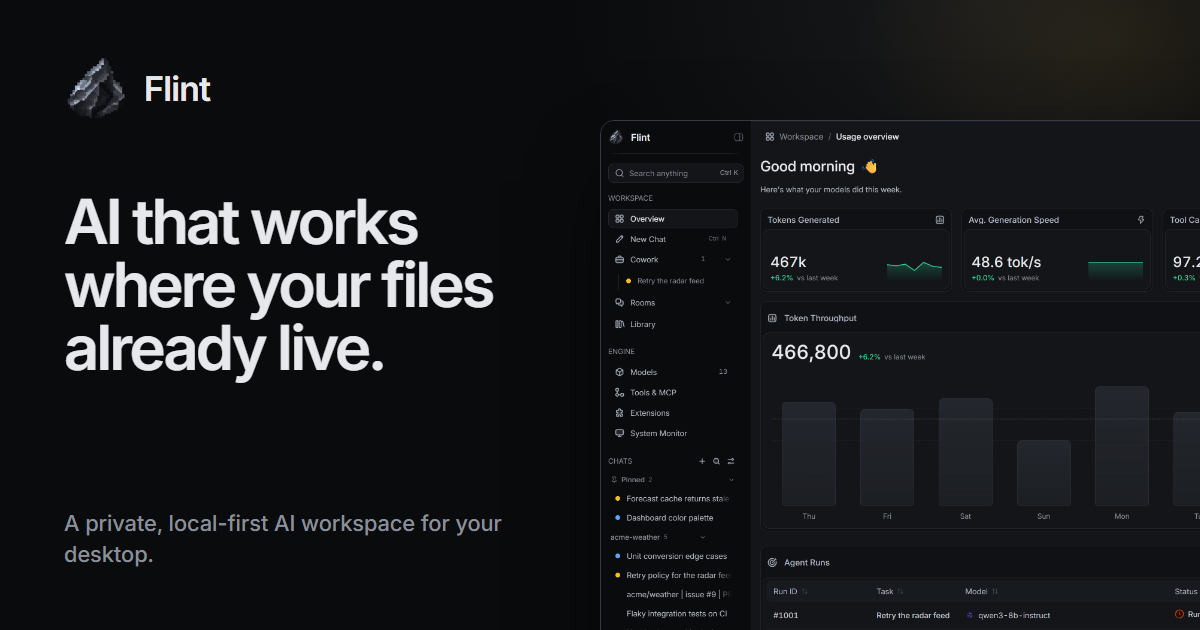
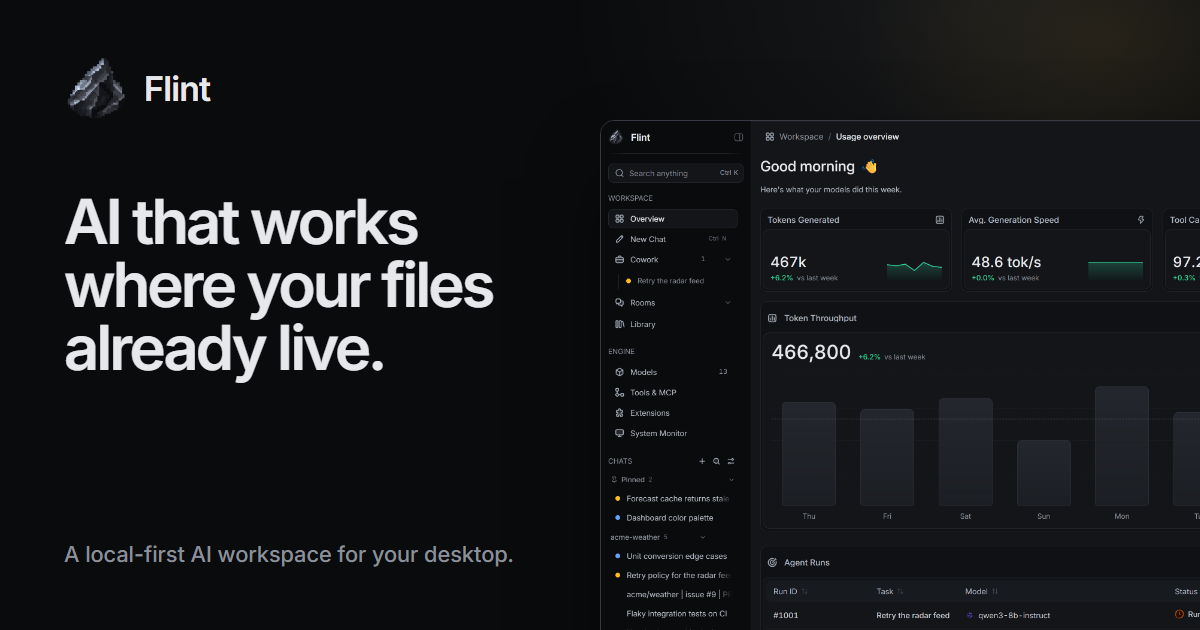
fix(website): drop the word private from site copy, scroll in-page links explicitly
Flint is open source on a public repository, so the site calls it local-first rather than private (hero, titles, descriptions, footer, social image, structured data, changelog heading). In-page links now scroll explicitly so they also work inside sandboxed frames. Adds a flat build mode and a packaging script for hosts that only allow inline code.

Changed region(s): [[0.0308, 0.8143, 0.4317, 0.9048]]

diff --git a/website/index.html b/website/index.html
@@ -5,7 +5,7 @@
     <meta name="viewport" content="width=device-width, initial-scale=1" />
     <meta name="theme-color" content="#0A0B0D" />
     <meta name="color-scheme" content="dark" />
-    <title>Flint: a private, local-first AI workspace for your desktop</title>
+    <title>Flint: a local-first AI workspace for your desktop</title>
     <meta
       name="description"
       content="Flint is an open source AI workspace for Windows, macOS and Linux. Chat with local or remote models, let Cowork agents work on real projects, and review every command, diff and decision before it reaches your files."
@@ -13,7 +13,7 @@
     <link rel="canonical" href="%SITE_URL%" />
     <meta property="og:type" content="website" />
     <meta property="og:site_name" content="Flint" />
-    <meta property="og:title" content="Flint: a private, local-first AI workspace for your desktop" />
+    <meta property="og:title" content="Flint: a local-first AI workspace for your desktop" />
     <meta
       property="og:description"
       content="Chat with any model. Hand real work to an agent. Review every command, diff and decision before it touches your project."
@@ -24,7 +24,7 @@
     <meta property="og:image:height" content="630" />
     <meta property="og:image:alt" content="The Flint icon above Flint's Overview screen" />
     <meta name="twitter:card" content="summary_large_image" />
-    <meta name="twitter:title" content="Flint: a private, local-first AI workspace for your desktop" />
+    <meta name="twitter:title" content="Flint: a local-first AI workspace for your desktop" />
     <meta
       name="twitter:description"
       content="Chat with any model. Hand real work to an agent. Review every command, diff and decision before it touches your project."

diff --git a/website/src/pages/registry.tsx b/website/src/pages/registry.tsx
@@ -7,7 +7,7 @@ export type PageDef = { path: string; title: string; description: string; Compon
 
 /** Every prerendered page. `path` is relative to the site base; '' is the homepage. */
 export const PAGES: PageDef[] = [
-  { path: '', title: 'Flint: a private, local-first AI workspace for your desktop', description: 'Flint is an open source AI workspace for Windows, macOS and Linux. Chat with local or remote models, let Cowork agents work on real projects, and review every command, diff and decision before it reaches your files.', Component: Home },
+  { path: '', title: 'Flint: a local-first AI workspace for your desktop', description: 'Flint is an open source AI workspace for Windows, macOS and Linux. Chat with local or remote models, let Cowork agents work on real projects, and review every command, diff and decision before it reaches your files.', Component: Home },
   { path: 'docs', title: 'Documentation · Flint', description: 'Guides for installing Flint, using the Cowork agent, permissions, MCP, skills, providers, the SDK and building from source.', Component: Docs },
   { path: 'install', title: 'Install Flint', description: 'Download Flint for Windows, macOS or Linux, open the unsigned installer, bring your first model and migrate from Jan.', Component: Install },
   { path: 'faq', title: 'FAQ · Flint', description: 'Answers about Flint: privacy, local and remote models, Cowork permissions, installing, and how it relates to Jan.', Component: Faq },

diff --git a/website/src/lib/effects.ts b/website/src/lib/effects.ts
@@ -3,6 +3,24 @@ export function startEffects(): () => void {
   const cleanups: Array<() => void> = []
   const reduce = window.matchMedia('(prefers-reduced-motion: reduce)').matches
 
+  // 0. In-page links scroll explicitly (works in sandboxed frames where fragment navigation can be blocked).
+  const onLink = (ev: MouseEvent) => {
+    const a = (ev.target as Element | null)?.closest<HTMLAnchorElement>('a[href^="#"]')
+    if (!a || ev.defaultPrevented || ev.button !== 0 || ev.metaKey || ev.ctrlKey || ev.shiftKey) return
+    const id = decodeURIComponent(a.getAttribute('href')!.slice(1))
+    const el = id ? document.getElementById(id) : document.body
+    if (!el) return
+    ev.preventDefault()
+    el.scrollIntoView({ behavior: reduce ? 'auto' : 'smooth', block: 'start' })
+    try {
+      history.replaceState(null, '', id ? `#${id}` : location.pathname + location.search)
+    } catch {
+      // Some sandboxes forbid history changes; scrolling already worked.
+    }
+  }
+  document.addEventListener('click', onLink)
+  cleanups.push(() => document.removeEventListener('click', onLink))
+
   // 1. Reveal on scroll.
   const reveals = Array.from(document.querySelectorAll<HTMLElement>('.reveal, .reveal-mask'))
   if (!('IntersectionObserver' in window) || reduce) {

diff --git a/website/src/pages/info.tsx b/website/src/pages/info.tsx
@@ -239,7 +239,7 @@ export function Faq() {
       title: 'The basics',
       body: (
         <>
-          {q('What is Flint?', <p>A private, local-first AI workspace for your desktop. You can chat with local or remote models, hand real work to a Cowork agent, and put several models in one Discussion Room. It runs on Windows, macOS and Linux.</p>)}
+          {q('What is Flint?', <p>A local-first AI workspace for your desktop. You can chat with local or remote models, hand real work to a Cowork agent, and put several models in one Discussion Room. It runs on Windows, macOS and Linux.</p>)}
           {q('Is Flint free?', <p>Yes. It is open source under the Apache License 2.0, and you can read, build and change the code.</p>)}
           {q('How is Flint related to Jan?', <p>Flint is an independent fork of Jan with its own design and features. It keeps Jan’s attribution and can migrate your existing Jan data.</p>)}
           {q('Does Flint have a command line?', <p>Yes. There is a command line for headless agent runs, with a JSON-lines API and background jobs, and there are JavaScript and Python SDKs. See the <a href={pageHref('docs')}>docs</a>.</p>)}

diff --git a/website/src/lib/site.ts b/website/src/lib/site.ts
@@ -7,9 +7,14 @@ export const BASE: string = import.meta.env.BASE_URL
 export const asset = (path: string) => `${BASE}${path.replace(/^\//, '')}`
 
 /** Internal page URL: '' is the homepage, 'privacy' is /privacy/. */
-export const pageHref = (path: string) => (path ? `${BASE}${path.replace(/^\/|\/$/g, '')}/` : BASE)
+export const FLAT = import.meta.env.VITE_FLAT === '1'
+export const pageHref = (path: string) => {
+  const p = path.replace(/^\/|\/$/g, '')
+  if (FLAT) return `${BASE}${p || 'index'}.html`
+  return p ? `${BASE}${p}/` : BASE
+}
 /** Section link that works from any page. */
-export const sectionHref = (id: string, home: boolean) => (home ? `#${id}` : `${BASE}#${id}`)
+export const sectionHref = (id: string, home: boolean) => (home ? `#${id}` : `${pageHref('')}#${id}`)
 /** Path relative to the site base, without slashes ('' for home). */
 export const pathFromLocation = (pathname: string) =>
   (pathname.startsWith(BASE) ? pathname.slice(BASE.length) : pathname.replace(/^\//, '')).replace(/\/+$/, '').replace(/\/index\.html$/, '')

diff --git a/website/src/components/Finish.tsx b/website/src/components/Finish.tsx
@@ -128,7 +128,7 @@ export function FinalCta() {
           <h2 className="h2" id="final-h">
             Your machine. Your models. Your rules.
           </h2>
-          <p className="lede">A private, local-first AI workspace for real work.</p>
+          <p className="lede">A local-first AI workspace for real work.</p>
           <div className="hero-cta">
             <DownloadButton />
             <ExternalLink href={LINKS.build} className="btn">
@@ -159,7 +159,7 @@ export function Footer({ home }: { home: boolean }) {
               <img src={asset('brand/icon-64.png')} width="30" height="30" alt="" />
               Flint
             </a>
-            <p>A private, local-first AI workspace for your desktop.</p>
+            <p>A local-first AI workspace for your desktop.</p>
           </div>
           {cols(home).map(([h, links]) => (
             <nav key={h} aria-label={h}>

diff --git a/website/src/components/Platform.tsx b/website/src/components/Platform.tsx
@@ -348,7 +348,7 @@ export function OpenSource() {
                   {Icon.github}
                   Jozkah/flint
                 </span>
-                <p>A private, local-first AI workspace for your desktop.</p>
+                <p>A local-first AI workspace for your desktop.</p>
                 <span className="tags">
                   <span className="pill plain">Apache License 2.0</span>
                   <span className="pill plain">Tauri + React</span>

diff --git a/website/src/main.tsx b/website/src/main.tsx
@@ -6,7 +6,8 @@ import { pathFromLocation } from './lib/site'
 import { findPage, NOT_FOUND } from './pages/registry'
 
 const root = document.getElementById('root')!
-const path = pathFromLocation(window.location.pathname)
+const forced = (window as unknown as { __FLINT_PAGE__?: string }).__FLINT_PAGE__
+const path = forced ?? pathFromLocation(window.location.pathname)
 const app = (
   <StrictMode>
     <App path={path} />

diff --git a/website/src/components/Hero.tsx b/website/src/components/Hero.tsx
@@ -18,7 +18,7 @@ export function Hero() {
           <div>
             <p className="eyebrow rise" style={{ ['--d' as string]: '0ms' }}>
               <span className="dot" />
-              Private · Local-first · Open source
+              Local-first · Open source · Bring your own models
             </p>
             <h1 className="h1">
               <Words text="AI that works where your files already live." />

diff --git a/website/scripts/og.html b/website/scripts/og.html
@@ -20,7 +20,7 @@
   <div class="glow"></div>
   <div class="brand"><img src="../public/brand/icon-256.png" alt="">Flint</div>
   <h1>AI that works where your files already live.</h1>
-  <p>A private, local-first AI workspace for your desktop.</p>
+  <p>A local-first AI workspace for your desktop.</p>
   <div class="frame"><img src="../../docs/screenshots/01-overview.png" alt=""></div>
 </body>
 </html>
